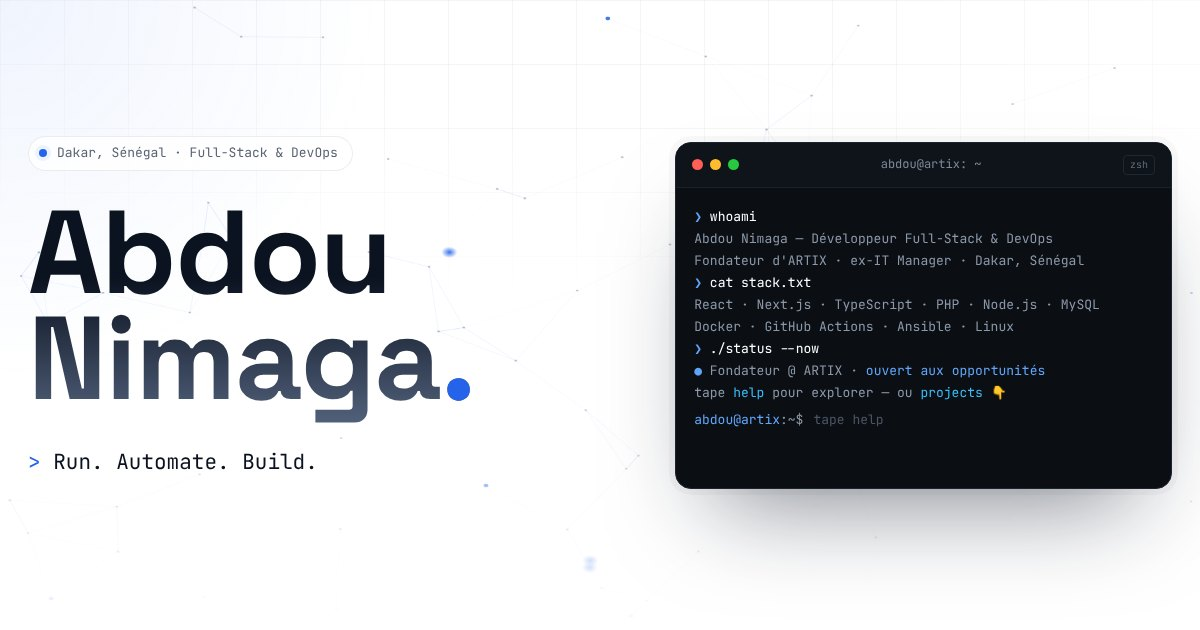
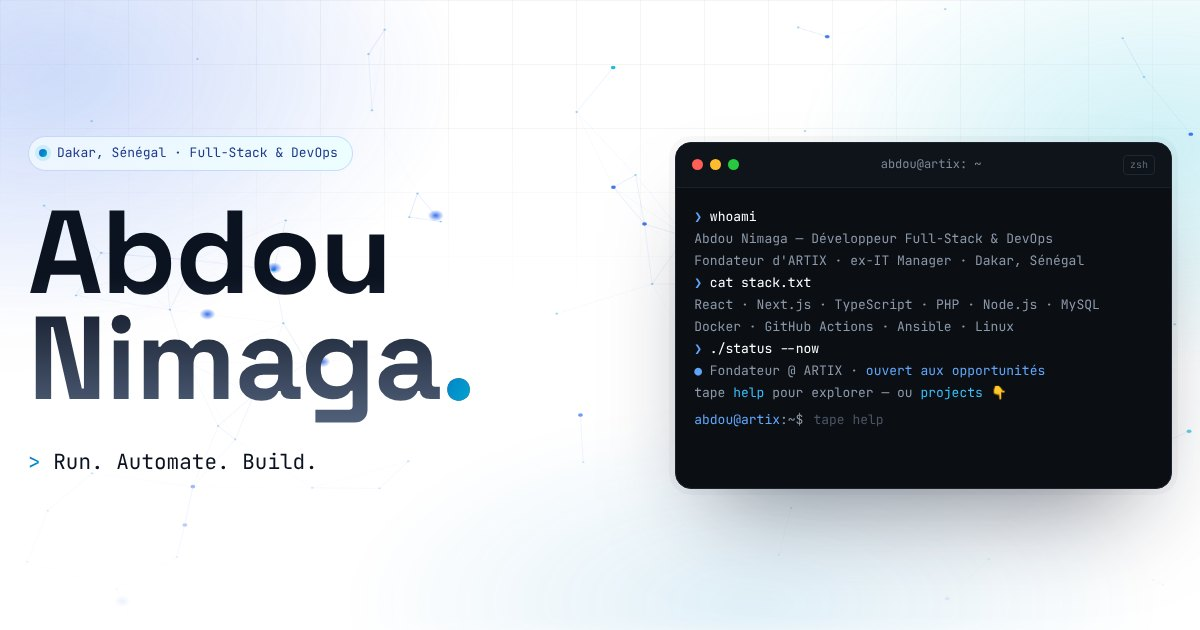
Portfolio V6.1 - plus de couleur : bleu et bleu océan
Dégradés bleu/océan, halo animé derrière le hero, vitrine et cartes
teintées, bande de compétences, encart contenus et pied de page
en bleu profond.

Claude-Session: https://claude.ai/code/session_01PK9oyfCnmoYeYPkDE8AwEo

diff --git a/styles.css b/styles.css
@@ -502,3 +502,133 @@ h3 { font-family: var(--f-display); letter-spacing: -.02em; }
   .js .reveal { opacity: 1; transform: none; }
   .marquee__track { animation: none; }
 }
+
+/* =========================================================
+   COLOR LAYER — bleu + bleu océan
+   ========================================================= */
+:root {
+  --ocean: #0891b2;
+  --ocean-2: #06b6d4;
+  --navy: #0b2545;
+  --grad: linear-gradient(120deg, #2563eb 0%, #0284c7 50%, #06b6d4 100%);
+  --grad-deep: linear-gradient(135deg, #0b2545 0%, #0c4a6e 55%, #0e7490 100%);
+  --tint: linear-gradient(160deg, #eff6ff 0%, #ecfeff 100%);
+}
+
+/* aurora behind the hero */
+.hero::before {
+  content: ""; position: absolute; inset: -10% -10% 0; pointer-events: none; z-index: -1;
+  background:
+    radial-gradient(40% 50% at 12% 20%, rgba(37,99,235,.18), transparent 70%),
+    radial-gradient(35% 45% at 88% 30%, rgba(6,182,212,.20), transparent 70%),
+    radial-gradient(40% 40% at 60% 95%, rgba(2,132,199,.12), transparent 70%);
+  filter: blur(10px);
+  animation: aurora 18s ease-in-out infinite alternate;
+}
+@keyframes aurora { to { transform: translate3d(2%, 3%, 0) scale(1.05); } }
+.hero { isolation: isolate; }
+
+/* gradient text accents */
+h2 em, .contact__title .accent, .hero__rotator .prompt {
+  background: var(--grad); -webkit-background-clip: text; background-clip: text; color: transparent; -webkit-text-fill-color: transparent;
+}
+.hero__name .accent { -webkit-text-fill-color: transparent; background: var(--grad); -webkit-background-clip: text; background-clip: text; }
+.stats b, .metrics b { background: var(--grad); -webkit-background-clip: text; background-clip: text; color: transparent; }
+.metrics b { background: linear-gradient(120deg, #93c5fd, #67e8f9); -webkit-background-clip: text; background-clip: text; }
+.caret { background: var(--grad); }
+.eyebrow .dot, .nav__cursor { color: var(--ocean); }
+.eyebrow .dot { background: var(--grad); box-shadow: 0 0 0 4px rgba(6,182,212,.15); }
+.eyebrow { border-color: rgba(37,99,235,.2); background: linear-gradient(90deg, rgba(239,246,255,.9), rgba(236,254,255,.9)); color: #1e3a8a; }
+
+/* buttons */
+.btn--primary { background: var(--grad); background-size: 160% 100%; background-position: 0 0; transition: background-position .5s var(--ease), transform .25s var(--ease), box-shadow .3s; box-shadow: 0 12px 30px -10px rgba(2,132,199,.55), inset 0 1px 0 rgba(255,255,255,.25); }
+.btn--primary:hover { background: var(--grad); background-size: 160% 100%; background-position: 100% 0; }
+.icon-btn:hover { color: var(--ocean); border-color: rgba(6,182,212,.4); }
+
+/* stats strip */
+.stats { background: linear-gradient(120deg, rgba(239,246,255,.92), rgba(236,254,255,.92)); border-color: rgba(37,99,235,.14); }
+.stats li { border-color: rgba(37,99,235,.12); }
+
+/* marquee */
+.marquee { background: var(--grad-deep); border: 0; }
+.marquee__track span { color: rgba(255,255,255,.55); }
+.marquee__track span:hover { color: #fff; }
+.marquee__track span::after { color: var(--ocean-2); }
+
+/* section numbers */
+.sec-num { color: var(--ocean); }
+
+/* bento: each card its own tint */
+.bento__card { position: relative; overflow: hidden; border-color: transparent; }
+.bento__card::before { opacity: 1; background: none; }
+.bento__card { background: linear-gradient(#fff, #fff) padding-box, linear-gradient(135deg, rgba(37,99,235,.35), rgba(6,182,212,.35)) border-box; border: 1px solid transparent; }
+.bento__card:nth-child(1) { background: linear-gradient(160deg, #eff6ff, #fff 60%) padding-box, linear-gradient(135deg, #93c5fd, #a5f3fc) border-box; }
+.bento__card:nth-child(2) { background: linear-gradient(160deg, #ecfeff, #fff 60%) padding-box, linear-gradient(135deg, #67e8f9, #93c5fd) border-box; }
+.bento__card:nth-child(3) { background: linear-gradient(160deg, #e0f2fe, #fff 60%) padding-box, linear-gradient(135deg, #7dd3fc, #93c5fd) border-box; }
+.bento__k { display: inline-block; padding: 3px 10px; border-radius: 999px; color: #fff; background: var(--grad); }
+.bento__card:nth-child(2) .bento__k { background: linear-gradient(120deg, #0891b2, #06b6d4); }
+.bento__card:nth-child(3) .bento__k { background: linear-gradient(120deg, #1d4ed8, #0284c7); }
+.chips li { background: #f0f9ff; border-color: rgba(2,132,199,.15); color: #0c4a6e; }
+
+/* showcase: ocean gradient stage */
+.showcase { background: radial-gradient(60% 70% at 50% 25%, rgba(255,255,255,.95), transparent 70%), linear-gradient(180deg, #dbeafe 0%, #cffafe 55%, #e0f2fe 100%); border: 0; }
+.showcase::after { background: linear-gradient(transparent, #e0f2fe); }
+.showcase__tag { color: #0c4a6e; }
+.showcase__tag span { background: linear-gradient(90deg, transparent, var(--ocean)); }
+.stage__label { color: #fff; background: var(--grad); border: 0; }
+
+/* project cards: tinted scenes, alternating hues */
+.card__scene { background: radial-gradient(70% 80% at 50% 20%, #fff, transparent 70%), linear-gradient(160deg, #dbeafe, #cffafe); }
+.projects .card:nth-child(3n+2) .card__scene { background: radial-gradient(70% 80% at 50% 20%, #fff, transparent 70%), linear-gradient(160deg, #cffafe, #e0f2fe); }
+.projects .card:nth-child(3n) .card__scene { background: radial-gradient(70% 80% at 50% 20%, #fff, transparent 70%), linear-gradient(160deg, #e0e7ff, #dbeafe); }
+.card:hover { box-shadow: 0 30px 60px -30px rgba(2,132,199,.45); }
+.card:hover .card__go { background: var(--grad); border-color: transparent; }
+.filter.is-active { color: #fff; background: var(--grad); box-shadow: 0 6px 16px -6px rgba(2,132,199,.5); }
+.filters { background: #f0f9ff; border-color: rgba(2,132,199,.15); }
+
+/* pipeline */
+.pipeline { background: linear-gradient(160deg, #f8fbff, #f0fdff); border-color: rgba(2,132,199,.15); }
+.pipeline__steps li.is-done .pipeline__icon { background: var(--grad); border-color: transparent; box-shadow: 0 10px 24px -8px rgba(2,132,199,.55); }
+.pipeline__packet { border-color: var(--ocean); }
+.pipeline__log { background: var(--navy); }
+.pipeline__log .g { color: #67e8f9; }
+
+/* labs */
+.lab { border-color: rgba(2,132,199,.14); }
+.lab:hover { box-shadow: 0 24px 50px -28px rgba(2,132,199,.45); }
+.lab__repo svg:first-child { color: var(--ocean); }
+
+/* timeline */
+.timeline::after { background: var(--grad); width: 2px; }
+.tl::before { border-color: var(--ocean); box-shadow: 0 0 0 4px rgba(6,182,212,.15); }
+.tl__org { color: var(--ocean); }
+.tl__card { box-shadow: inset 3px 0 0 var(--ocean-2), var(--shadow); }
+.tl:nth-child(odd) .tl__card { box-shadow: inset 3px 0 0 #2563eb, var(--shadow); }
+
+/* content band: deep ocean */
+.content-band { background: radial-gradient(500px circle at 0% 0%, rgba(6,182,212,.35), transparent 60%), radial-gradient(500px circle at 100% 100%, rgba(37,99,235,.35), transparent 60%), var(--grad-deep); }
+.content-band .sec-num { color: #67e8f9; }
+.metrics li { background: rgba(255,255,255,.07); border-color: rgba(255,255,255,.12); }
+.metrics .mono { color: #67e8f9; }
+
+/* contact */
+.contact__mail { background: var(--grad); border: 0; color: #fff; box-shadow: 0 24px 50px -24px rgba(2,132,199,.6); }
+.contact__mail b, .contact__mail .mono, .contact__mail small { color: #fff; }
+.contact__mail small { opacity: .8; }
+.contact__link .mono { color: var(--ocean); }
+.contact__link:hover svg { color: var(--ocean); }
+
+/* footer */
+.footer { background: var(--grad-deep); border: 0; color: rgba(255,255,255,.7); }
+.footer__in, .footer .muted { color: rgba(255,255,255,.65); }
+.footer__clock b { color: #67e8f9; }
+
+/* nav accents */
+.nav__links a.is-active { color: #0c4a6e; background: linear-gradient(120deg, #dbeafe, #cffafe); }
+.boot__log .ok { color: var(--ocean); }
+.boot__bar span { background: var(--grad); }
+.modal__stage { background: radial-gradient(60% 80% at 50% 25%, #fff, transparent 70%), linear-gradient(160deg, #dbeafe, #cffafe); }
+.modal__k { color: var(--ocean); }
+.palette__list li.is-sel { background: linear-gradient(90deg, #eff6ff, #ecfeff); }
+
+@media (prefers-reduced-motion: reduce) { .hero::before { animation: none; } }

diff --git a/script.js b/script.js
@@ -117,7 +117,7 @@
       nodes = Array.from({ length: n }, () => ({
         x: Math.random() * W, y: Math.random() * H,
         vx: (Math.random() - 0.5) * 0.25, vy: (Math.random() - 0.5) * 0.25,
-        r: Math.random() < 0.12 ? 2.4 : 1.3
+        r: Math.random() < 0.12 ? 2.4 : 1.3, o: Math.random() < 0.5
       }));
     };
     resize();
@@ -153,12 +153,12 @@
         }
         const md = Math.hypot(a.x - mouse.x, a.y - mouse.y);
         if (md < 200) {
-          ctx.strokeStyle = `rgba(14,165,233,${(1 - md / 200) * 0.4})`;
+          ctx.strokeStyle = `rgba(6,182,212,${(1 - md / 200) * 0.5})`;
           ctx.beginPath(); ctx.moveTo(a.x, a.y); ctx.lineTo(mouse.x, mouse.y); ctx.stroke();
         }
       }
       for (const n of nodes) {
-        ctx.fillStyle = n.r > 2 ? "rgba(37,99,235,.85)" : "rgba(71,85,105,.35)";
+        ctx.fillStyle = n.r > 2 ? (n.o ? "rgba(6,182,212,.9)" : "rgba(37,99,235,.85)") : "rgba(2,132,199,.35)";
         ctx.beginPath(); ctx.arc(n.x, n.y, n.r, 0, Math.PI * 2); ctx.fill();
       }
       packets = packets.filter((p) => {

diff --git a/index.html b/index.html
@@ -18,7 +18,7 @@
   <link rel="preconnect" href="https://fonts.googleapis.com">
   <link rel="preconnect" href="https://fonts.gstatic.com" crossorigin>
   <link href="https://fonts.googleapis.com/css2?family=Inter:wght@400;500;600&family=Instrument+Serif:ital@1&family=JetBrains+Mono:wght@400;500;700&family=Space+Grotesk:wght@500;600;700&display=swap" rel="stylesheet">
-  <link rel="stylesheet" href="styles.css?v=6.0.0">
+  <link rel="stylesheet" href="styles.css?v=6.1.0">
   <script>document.documentElement.classList.add('js');</script>
 </head>
 <body>
@@ -354,7 +354,7 @@
 
   <div class="toast" id="toast" role="status" aria-live="polite"></div>
 
-  <script src="projects.js?v=6.0.0"></script>
-  <script src="script.js?v=6.0.0"></script>
+  <script src="projects.js?v=6.1.0"></script>
+  <script src="script.js?v=6.1.0"></script>
 </body>
 </html>
